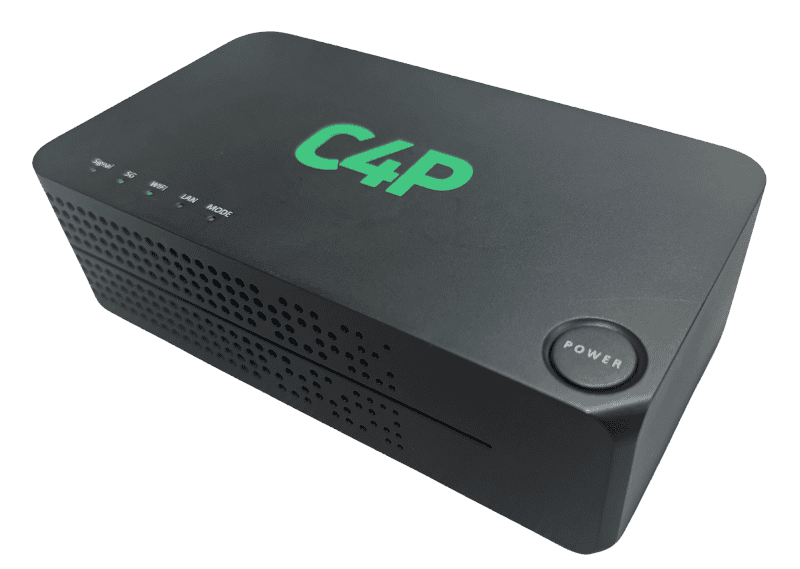
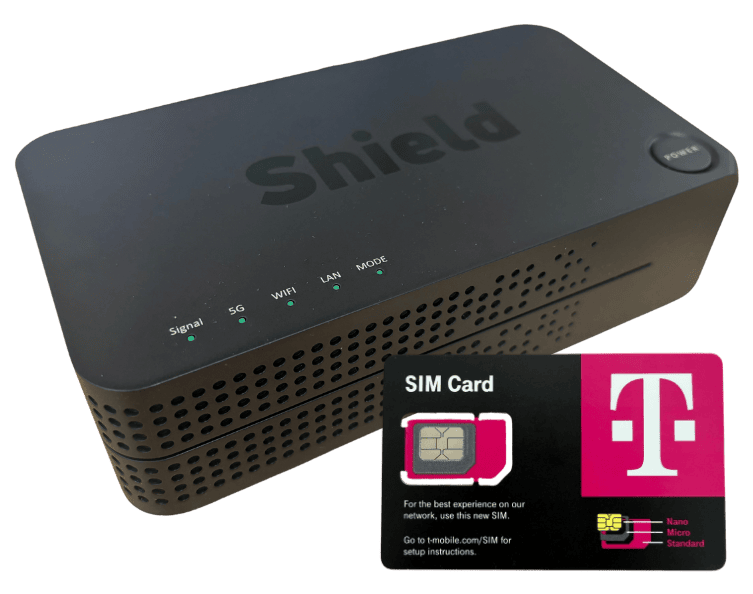
shield 5g hotspot + data plan

diff --git a/src/homepage/shield5grouter.jsx b/src/homepage/shield5grouter.jsx
@@ -1,7 +1,7 @@
 import { useState } from "react";
 
 export default function Shield5grouter() {
-  const images = ["/Hotspot/shieldrouterfront.png", "/Hotspot/shieldrouterside.png", "/Hotspot/shieldrouterside1.png", "/Hotspot/shieldrouterback.png", "/Hotspot/shieldrouterbottom.png"];
+  const images = ["/Hotspot/shieldrouterfront.png", "/Hotspot/shieldrouterside.png", "/Hotspot/shieldrouterside1.png", "/Hotspot/shieldrouterback.png", "/Hotspot/simcard.png"];
   const [selectedImage, setSelectedImage] = useState(images[0]);
 
   return (
@@ -49,36 +49,46 @@ export default function Shield5grouter() {
           {/* Title & Description */}
           <div className="pt-8 sm:pl-[4.5rem]">
             <h1 className="text-2xl sm:text-3xl font-bold text-gray-900 mb-2">
-            Shield 5G Home Hotspot - Device Only (Pre-Order)
+              Shield 5G Home Hotspot + Unlimited Internet (May be Delayed Due to Limited Supply)
             </h1>
             <p className="text-gray-700 text-base max-w-xl">
-Need stronger Wi-Fi for your whole home? This is it.  
-The Shield 5G Home Hotspot is a powerful device that delivers fast, reliable internet throughout your house. Ideal for families, video calls, streaming, and connecting multiple devices at once.
+              Need stronger Wi-Fi for your whole home? This is it.
+              The Shield 5G Home Hotspot is a powerful, portable device that delivers fast, reliable internet throughout your house – perfect for families, schoolwork, video calls, and streaming.
 
-<br /><br />
-<b>This product includes only the hardware.</b><br />
-To use it, you must also purchase a <a className="text-c4p" href="/shieldsimcard">Shield Internet subscription</a> separately for $14.89/month.  
+              <br /><br />
+              <b>What’s included:</b><br />
+              - Shield 5G Home Router<br />
+              - Unlimited 4G/5G Internet via T-Mobile network<br />
+              - SIM card shipped seperately<br />
+              - Connect multiple devices simultaneously<br />
 
-<br /><br />
-<b>Why choose this router:</b><br />
-- Stronger signal and faster speeds than a hotspot<br />
-- Supports many devices at once<br />
-- Built-in battery lasts up to 4 hours unplugged<br />
-- Fully portable - take it anywhere<br />
+              <br />
+              <b>Features:</b><br />
+              - Faster & stronger signal than mobile hotspots<br />
+              - Battery backup lasts up to 4 hours unplugged<br />
+              - Fully portable - use it at home or on the go<br />
+              - Just turn it on and connect - no setup required<br />
+              - Built in VPN for security<br />
 
+              <br />
+              <b>Plan Details:</b><br />
+              - $14.89/month for truly unlimited internet<br />
+              - No data caps, no throttling, no surprise fees<br />
+              - Cancel anytime - no contracts<br />
 
-<br /><br />
-<b>Note:</b><br />
-This is a pre-order. It’s not shipping yet, but we’ll notify you as soon as it’s on the way.
-</p>
-
+              <br />
+              Free shipping anywhere in the U.S. Your device arrives pre-configured and ready to use.
+              <br /><br />
+              <b>Note:</b><br />
+We currently have limited inventory and are shipping in waves. Orders may be delayed depending on demand. You’ll receive a confirmation email with tracking information once your unit is ready to ship.
+            </p>
           </div>
         </div>
 
         {/* Right: Zoho Checkout Embed (aligned to image top) */}
         <div className="w-full mt-0 lg:-mt-20">
           <iframe
-            src="https://mobile.computers4people.org/subscribe/d98e62cf656eb2344296c67863c94b77835d327f877b7e75ad482bf477cf719e/120"
+            src="https://mobile.computers4people.org/subscribe/d98e62cf656eb2344296c67863c94b77835d327f877b7e75ad482bf477cf719e/105?addon_code%5B0%5D=5&addon_quantity%5B0%5D=1"
             title="Zoho Subscription Checkout"
             width="100%"
             height="1300px"

diff --git a/src/homepage/shield.jsx b/src/homepage/shield.jsx
@@ -266,8 +266,8 @@ export default function ShieldHeader() {
     {/* 3 Lines Under Image */}
     <div className="pt-6 text-left">
       <h3 className="text-lg font-semibold text-gray-900 mb-1">Shield 5G Home Hotspot</h3>
-      <p className="text-gray-900 text-sm font-medium mb-1">PRE-ORDER $149</p>
-      <p className="text-gray-600 text-sm">Stronger signal and great for families or shared spaces.</p>
+      <p className="text-gray-900 text-sm font-medium mb-1">$149 Device + $14.89/Month</p>
+      <p className="text-gray-600 text-sm">Stronger signal and great for shared spaces. Connect up to 32 devices!</p>
     </div>
   </div>
 </a>
